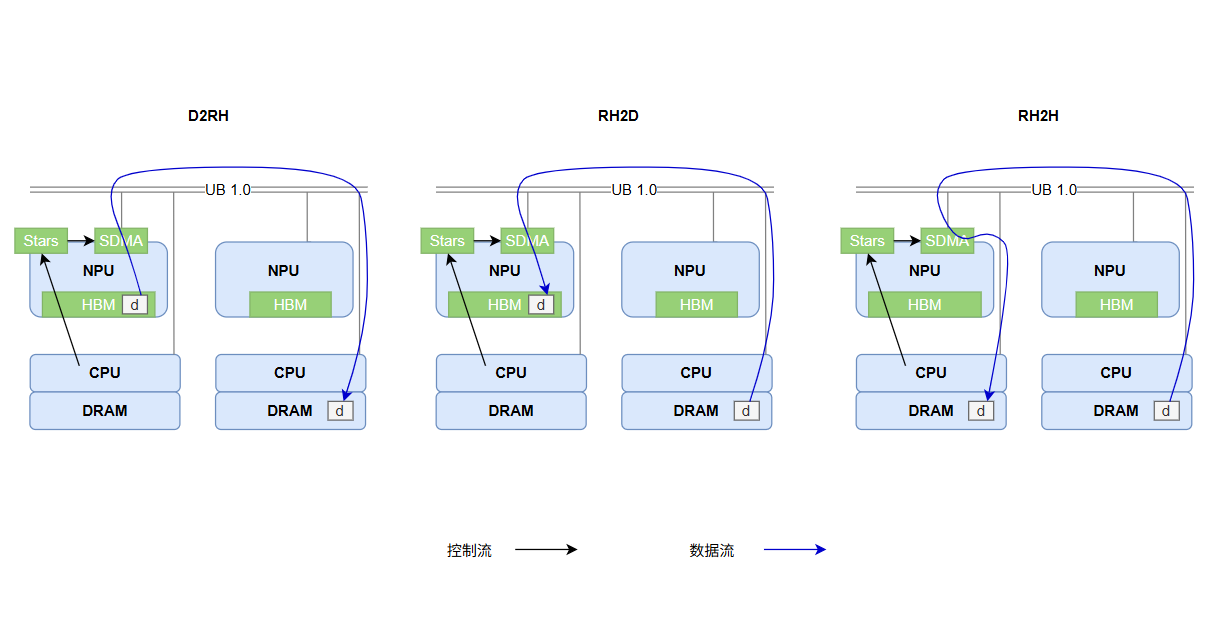
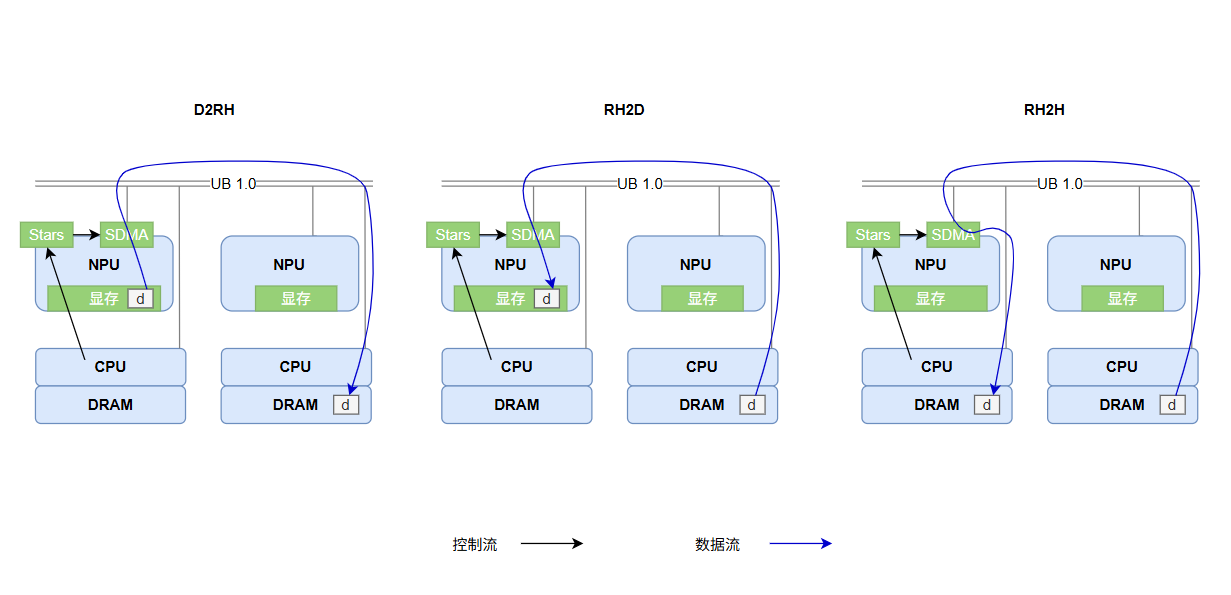
!1152 updated pictures and README.md * updated pictures and README.md * updated pictures and README.md

diff --git a/README.md b/README.md
@@ -6,8 +6,8 @@
 
 ## 🎉概述
 
-  MemFabric是一款开源内存池化软件，面向昇腾超节点和服务器，其设计目的是:
-  - 将多节点的异构设备内存(DRAM | HBM等)池化且提供高性能的全局内存直接访问的能力
+  MemFabric是一款开源内存池化软件，面向昇腾超节点和服务器等，其设计目的是:
+  - 将多节点的异构设备内存(DRAM|显存等)池化且提供高性能的全局内存直接访问的能力
   - 北向提供简单的内存语义访问接口(xcopy with global virtual address)
   - 南向屏蔽多种DMA引擎及多种总线/网络 (Device UB、Device RoCE、Host UB、Host RoCE等)
 
